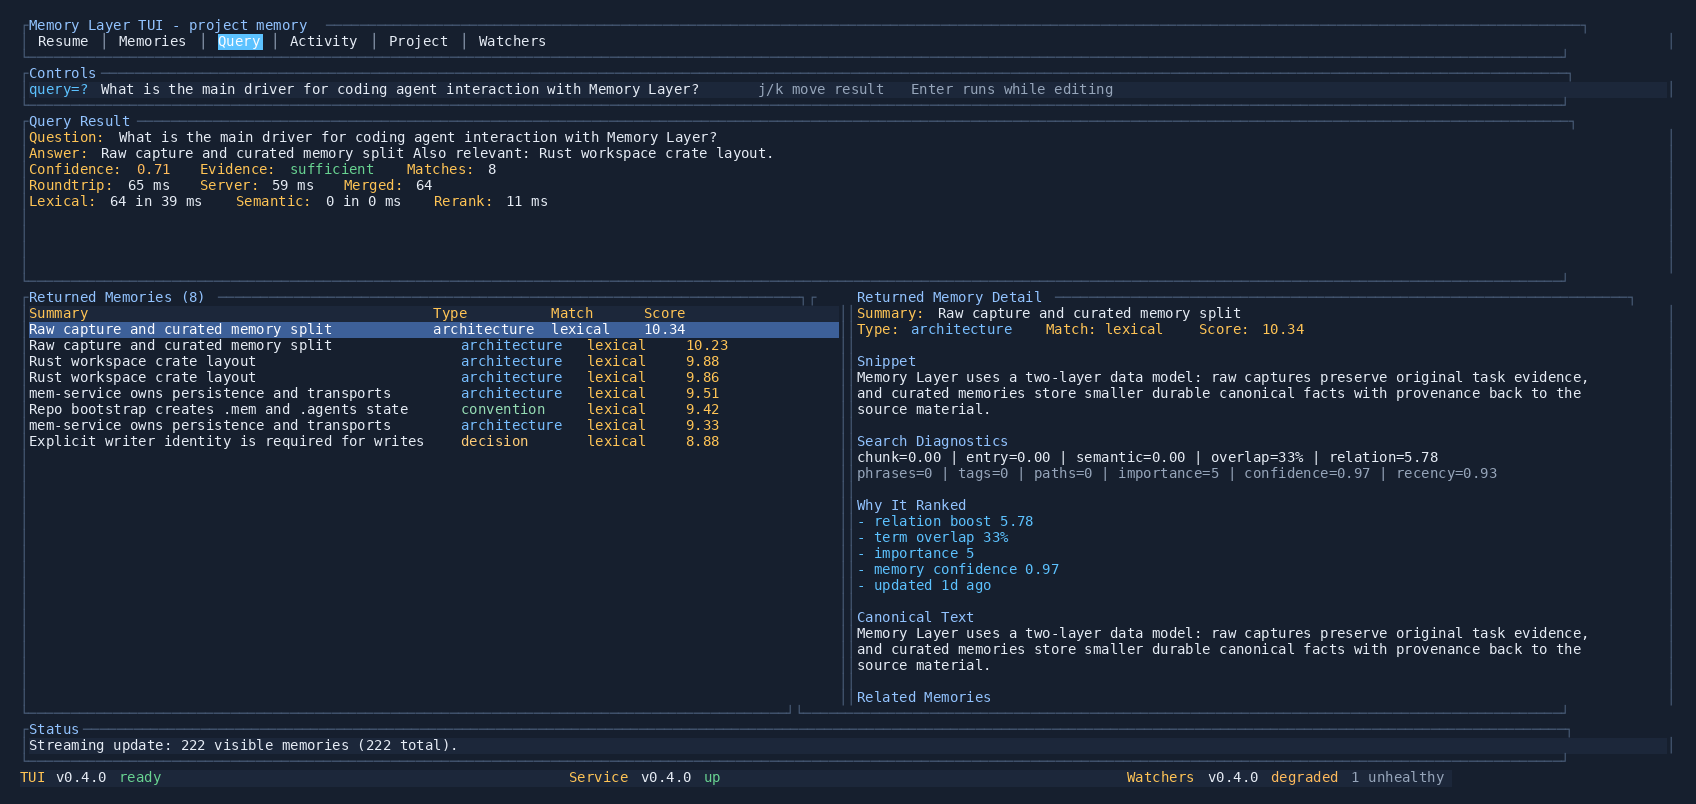
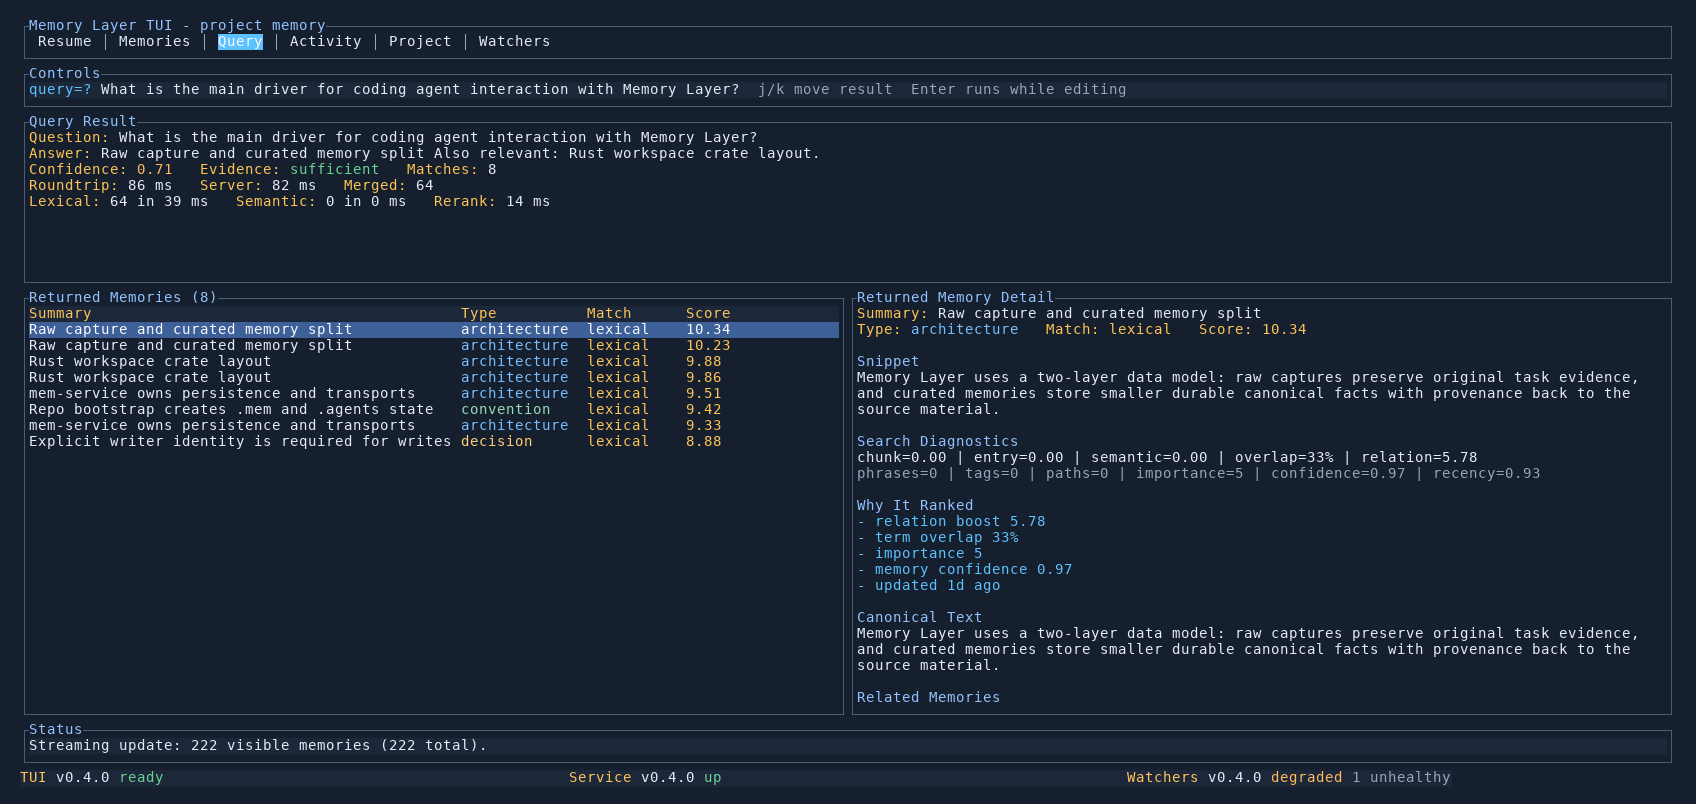
Fix: draw TUI screenshot borders as primitives

Changed region(s): [[0.0, 0.342, 0.9688, 0.995], [0.0, 0.0311, 0.9375, 0.2799]]

diff --git a/scripts/generate-tui-doc-screenshots.py b/scripts/generate-tui-doc-screenshots.py
@@ -30,6 +30,7 @@ FONT_SIZE = 14
 PADDING_X = 20
 PADDING_Y = 18
 QUERY_TEXT = "What is the main driver for coding agent interaction with Memory Layer?"
+BOX_DRAWING_CHARS = set("│─┌┐└┘├┤┬┴┼")
 
 
 @dataclass(frozen=True)
@@ -156,42 +157,67 @@ def render_screen(payload: bytes, output_path: Path) -> None:
     )
     draw = ImageDraw.Draw(image)
 
+    def draw_box_glyph(char: str, style: CellStyle, x: int, y: int) -> None:
+        draw.rectangle([x, y, x + cell_width, y + cell_height], fill=style.bg)
+        fg = style.fg
+        left = x
+        right = x + cell_width - 1
+        top = y
+        bottom = y + cell_height - 1
+        cx = x + cell_width // 2
+        cy = y + cell_height // 2
+
+        if char == "│":
+            draw.line((cx, top, cx, bottom), fill=fg, width=1)
+        elif char == "─":
+            draw.line((left, cy, right, cy), fill=fg, width=1)
+        elif char == "┌":
+            draw.line((cx, cy, right, cy), fill=fg, width=1)
+            draw.line((cx, cy, cx, bottom), fill=fg, width=1)
+        elif char == "┐":
+            draw.line((left, cy, cx, cy), fill=fg, width=1)
+            draw.line((cx, cy, cx, bottom), fill=fg, width=1)
+        elif char == "└":
+            draw.line((cx, top, cx, cy), fill=fg, width=1)
+            draw.line((cx, cy, right, cy), fill=fg, width=1)
+        elif char == "┘":
+            draw.line((cx, top, cx, cy), fill=fg, width=1)
+            draw.line((left, cy, cx, cy), fill=fg, width=1)
+        elif char == "├":
+            draw.line((cx, top, cx, bottom), fill=fg, width=1)
+            draw.line((cx, cy, right, cy), fill=fg, width=1)
+        elif char == "┤":
+            draw.line((cx, top, cx, bottom), fill=fg, width=1)
+            draw.line((left, cy, cx, cy), fill=fg, width=1)
+        elif char == "┬":
+            draw.line((left, cy, right, cy), fill=fg, width=1)
+            draw.line((cx, cy, cx, bottom), fill=fg, width=1)
+        elif char == "┴":
+            draw.line((left, cy, right, cy), fill=fg, width=1)
+            draw.line((cx, top, cx, cy), fill=fg, width=1)
+        elif char == "┼":
+            draw.line((left, cy, right, cy), fill=fg, width=1)
+            draw.line((cx, top, cx, bottom), fill=fg, width=1)
+
     for row, line in enumerate(lines):
         if not line:
             continue
-        x = PADDING_X
         y = PADDING_Y + row * cell_height
-        run_text = ""
-        run_style = line[0][1]
-        run_start = x
-
-        def flush() -> None:
-            nonlocal run_text, run_style, run_start
-            if not run_text:
-                return
-            width = len(run_text) * cell_width
-            draw.rectangle(
-                [run_start, y, run_start + width, y + cell_height],
-                fill=run_style.bg,
-            )
-            draw.text(
-                (run_start, y - 1),
-                run_text,
-                font=font,
-                fill=run_style.fg,
-            )
-            run_text = ""
-
         for col, (char, style) in enumerate(line):
             char_x = PADDING_X + col * cell_width
-            if style != run_style:
-                flush()
-                run_style = style
-                run_start = char_x
-            if not run_text:
-                run_start = char_x
-            run_text += char
-        flush()
+            draw.rectangle(
+                [char_x, y, char_x + cell_width, y + cell_height],
+                fill=style.bg,
+            )
+            if char in BOX_DRAWING_CHARS:
+                draw_box_glyph(char, style, char_x, y)
+            else:
+                draw.text(
+                    (char_x, y - 1),
+                    char,
+                    font=font,
+                    fill=style.fg,
+                )
 
     output_path.parent.mkdir(parents=True, exist_ok=True)
     image.save(output_path)
